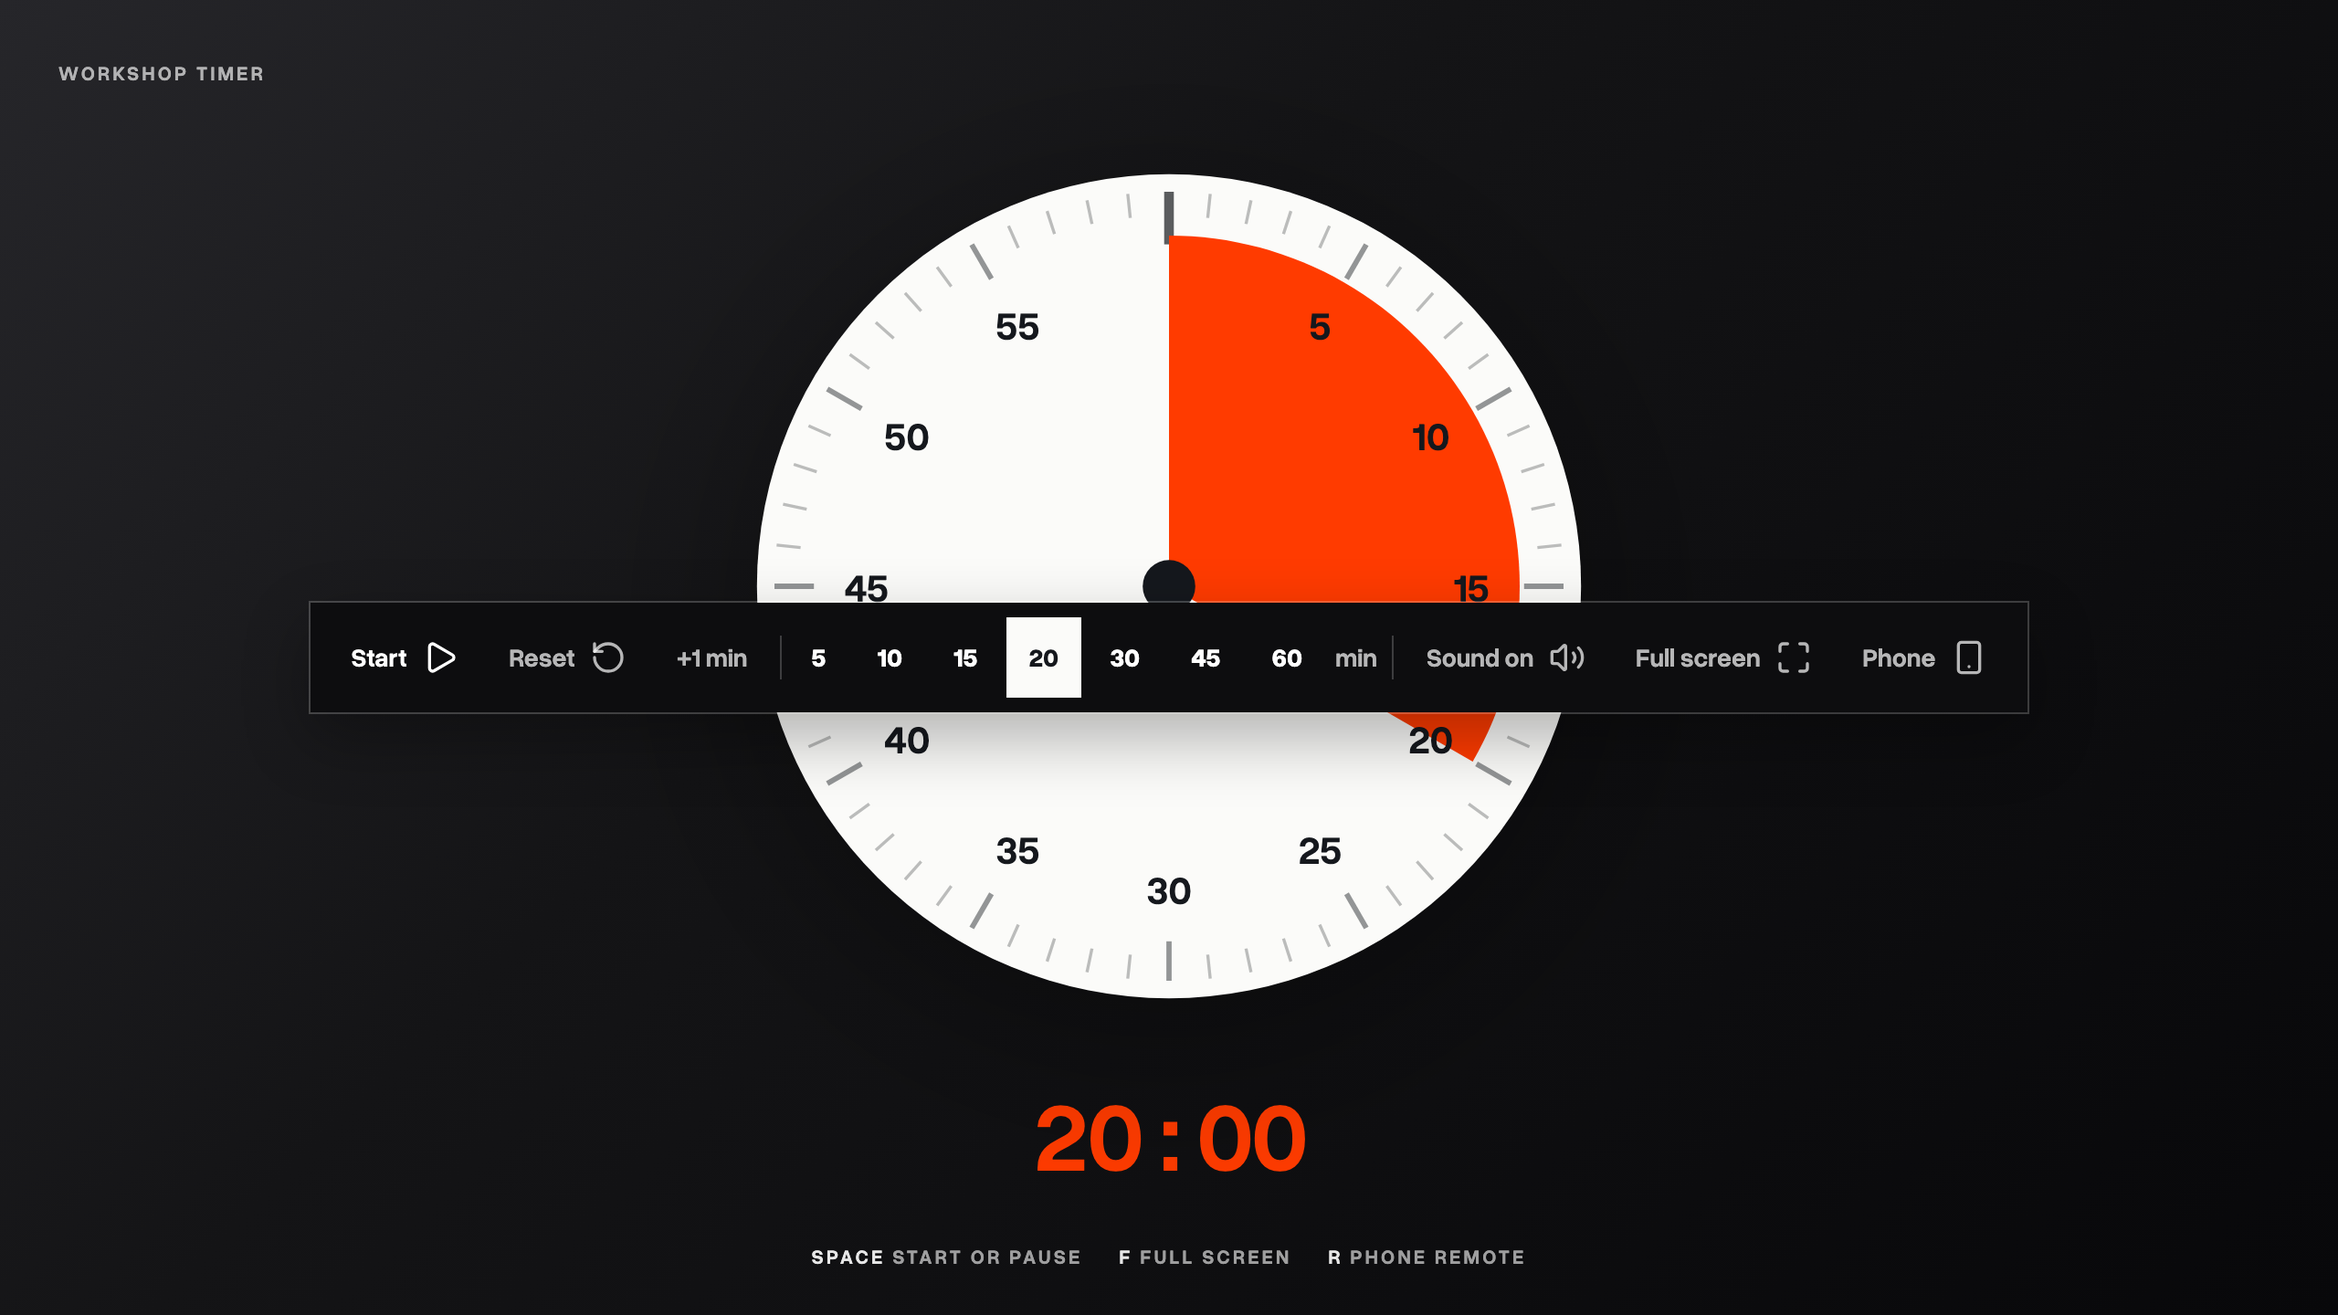
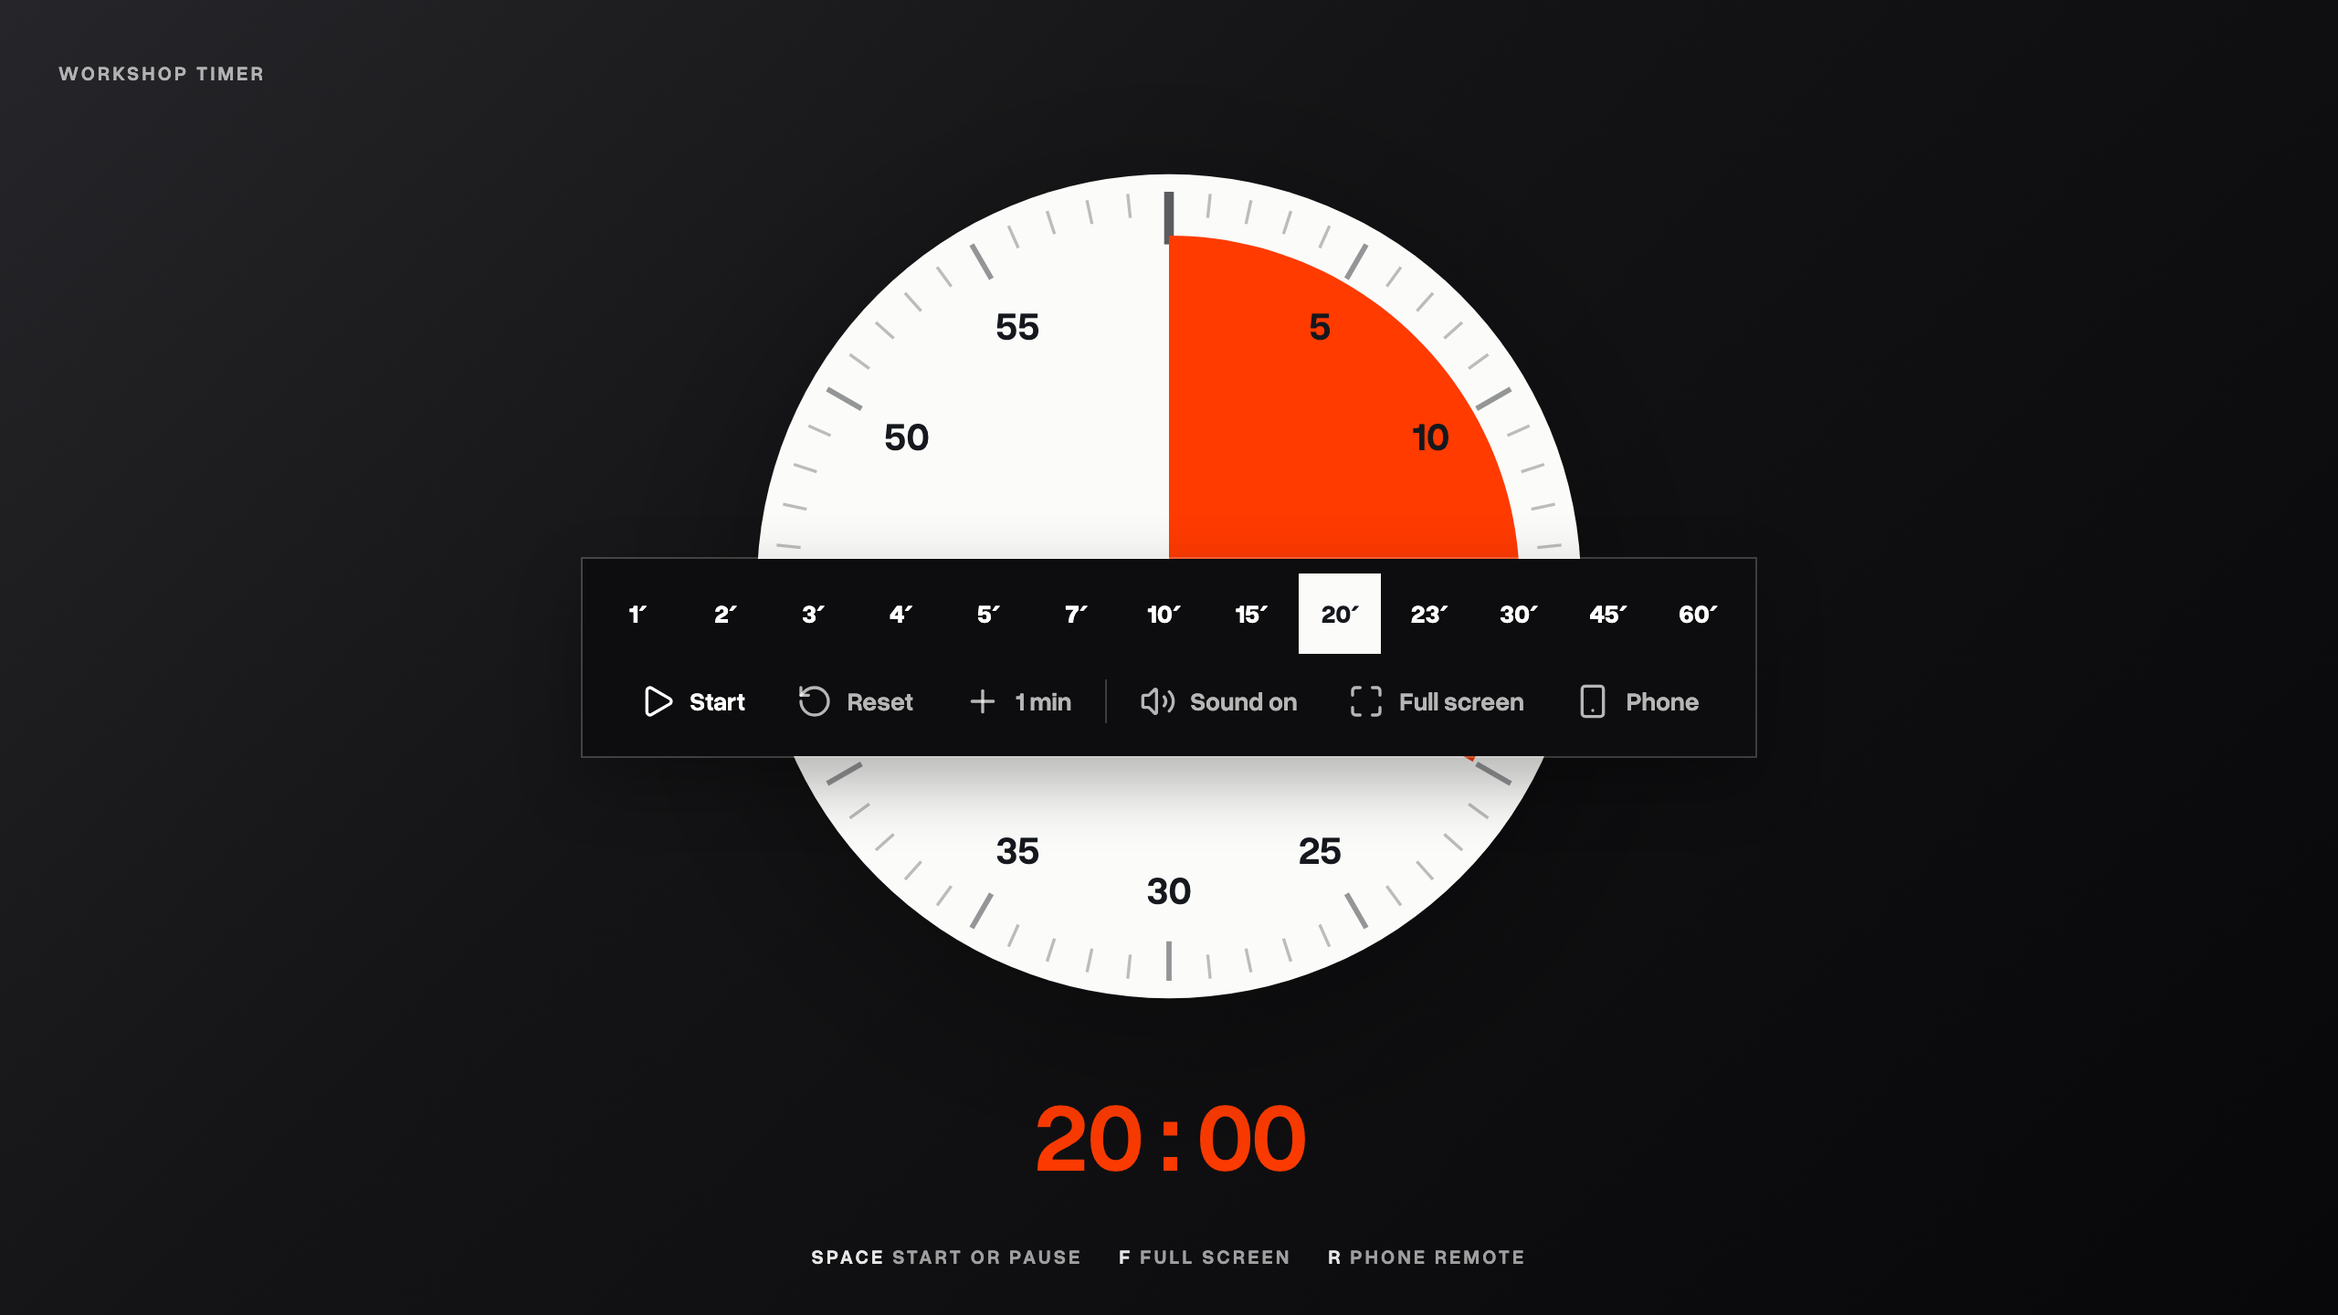
Shorter lengths, and every length in one row above the controls (#1)
Adds 1, 2, 3, 4, 7 and 23 minutes. On the screen the lengths get a row of their own above the controls, marked with the minute prime; every control leads with its symbol. On the phone the extra minute stretches across what the last row has left. README pictures re-shot.

diff --git a/src/components/timer-chrome.tsx b/src/components/timer-chrome.tsx
@@ -6,6 +6,7 @@ import {
   Minimize,
   Pause,
   Play,
+  Plus,
   RotateCcw,
   Smartphone,
   Volume2,
@@ -13,7 +14,7 @@ import {
 } from "lucide-react"
 
 import { usePrefersReducedMotion } from "@/components/use-reduced-motion"
-import { PRESETS } from "@/lib/timer-clock"
+import { PRESETS, SHORT_PRESETS } from "@/lib/timer-clock"
 import { cn } from "@/lib/utils"
 
 // The controls, gathered into one panel that shows itself when you move and
@@ -26,7 +27,7 @@ import { cn } from "@/lib/utils"
 // not there; and full screen stops being a second layout, since there is
 // nothing left to hide when the page is projected.
 
-/** Every control wears the same clothes: a label, a trailing symbol, no fill,
+/** Every control wears the same clothes: a leading symbol, a label, no fill,
  *  so nothing in here competes with the clock. `min-h-11` holds a 44px tap
  *  target, which is the smallest a finger reliably hits. */
 const CONTROL =
@@ -169,6 +170,26 @@ function TimerChrome({
   onToggleRemote,
   remoteHost,
 }: TimerChromeProps) {
+  const presetChip = (p: number) => (
+    <button
+      key={p}
+      type="button"
+      onClick={() => onChoose(p)}
+      aria-pressed={p * 60 === durationSeconds}
+      aria-label={`${p} ${p === 1 ? "minute" : "minutes"}`}
+      className={cn(
+        "min-h-11 min-w-11 px-3 text-sm font-bold transition-colors focus-visible:ring-2 focus-visible:ring-brand-on-panel focus-visible:ring-offset-2 focus-visible:ring-offset-brand-panel focus-visible:outline-none",
+        p * 60 === durationSeconds
+          ? "bg-brand-face text-brand-ink"
+          : "text-brand-on-panel hover:bg-brand-on-panel/15"
+      )}
+    >
+      {/* The prime is the minute mark, so each chip carries its own unit and
+          the row needs no "min" label trailing after it. */}
+      {p}′
+    </button>
+  )
+
   return (
     // A panel over the middle of the screen, not a row at the foot of the
     // column. Two things follow from floating it: the dial keeps the whole page
@@ -209,107 +230,89 @@ function TimerChrome({
             page: a tint reads as a smear once the thing behind it is white. */}
         <div
           className={cn(
-            "flex max-w-full flex-wrap items-center justify-center gap-x-1 gap-y-1 bg-brand-panel p-2 shadow-[0_14px_36px_rgb(0_0_0/0.3)] ring-1 ring-brand-on-panel/20"
+            "flex max-w-full flex-col items-center gap-1 bg-brand-panel p-2 shadow-[0_14px_36px_rgb(0_0_0/0.3)] ring-1 ring-brand-on-panel/20"
           )}
         >
-          <div className="flex items-center">
-            <button
-              type="button"
-              onClick={onToggle}
-              // The primary action keeps full-strength ink while the rest sit
-              // at 70%: same treatment, but Start is still the one you can
-              // find from the back of the room.
-              className={cn(CONTROL, "text-brand-on-panel")}
-            >
-              {running ? "Pause" : finished ? "Start again" : "Start"}
-              {running ? <Pause className="size-5" /> : <Play className="size-5" />}
-            </button>
-            <button
-              type="button"
-              onClick={onReset}
-              className={cn(CONTROL, "text-brand-on-panel/70 hover:text-brand-on-panel")}
-            >
-              Reset
-              <RotateCcw className="size-5" />
-            </button>
-            {/* The only control in this panel without a trailing symbol,
-                because it already starts with one. A plus icon after "+1 min"
-                says the same thing twice. */}
-            <button
-              type="button"
-              onClick={onAddMinute}
-              className={cn(CONTROL, "text-brand-on-panel/70 hover:text-brand-on-panel")}
-            >
-              +1 min
-            </button>
+          {/* The lengths get a row of their own, above the controls: every
+              chip in it is a number of minutes, smallest first, so the row
+              reads as one scale from a quick check-in to the full hour. */}
+          <div className="flex max-w-full flex-wrap items-center justify-center gap-1">
+            {[...SHORT_PRESETS, ...PRESETS].map(presetChip)}
           </div>
 
-          <Divider />
-
-          <div className="flex flex-wrap items-center justify-center gap-1">
-            {PRESETS.map((p) => (
+          <div className="flex max-w-full flex-wrap items-center justify-center gap-x-1 gap-y-1">
+            <div className="flex items-center">
               <button
-                key={p}
                 type="button"
-                onClick={() => onChoose(p)}
-                aria-pressed={p * 60 === durationSeconds}
+                onClick={onToggle}
+                // The primary action keeps full-strength ink while the rest sit
+                // at 70%: same treatment, but Start is still the one you can
+                // find from the back of the room.
+                className={cn(CONTROL, "text-brand-on-panel")}
+              >
+                {running ? <Pause className="size-5" /> : <Play className="size-5" />}
+                {running ? "Pause" : finished ? "Start again" : "Start"}
+              </button>
+              <button
+                type="button"
+                onClick={onReset}
+                className={cn(CONTROL, "text-brand-on-panel/70 hover:text-brand-on-panel")}
+              >
+                <RotateCcw className="size-5" />
+                Reset
+              </button>
+              {/* The plus is the symbol rather than a character in the label,
+                  so this control wears the same clothes as the others. */}
+              <button
+                type="button"
+                onClick={onAddMinute}
+                aria-label="Add one minute"
+                className={cn(CONTROL, "text-brand-on-panel/70 hover:text-brand-on-panel")}
+              >
+                <Plus className="size-5" />1 min
+              </button>
+            </div>
+
+            <Divider />
+
+            <div className="flex items-center">
+              <button
+                type="button"
+                onClick={onToggleMuted}
+                aria-pressed={muted}
+                className={cn(CONTROL, "text-brand-on-panel/70 hover:text-brand-on-panel")}
+              >
+                {muted ? <VolumeX className="size-5" /> : <Volume2 className="size-5" />}
+                {muted ? "Sound off" : "Sound on"}
+              </button>
+              <button
+                type="button"
+                onClick={onToggleFullscreen}
+                aria-pressed={fullscreen}
+                className={cn(CONTROL, "text-brand-on-panel/70 hover:text-brand-on-panel")}
+              >
+                {fullscreen ? (
+                  <Minimize className="size-5" />
+                ) : (
+                  <Maximize className="size-5" />
+                )}
+                {fullscreen ? "Leave full screen" : "Full screen"}
+              </button>
+              <button
+                type="button"
+                onClick={onToggleRemote}
+                aria-pressed={remote.code !== null}
                 className={cn(
-                  "min-h-11 px-3 text-sm font-bold transition-colors focus-visible:ring-2 focus-visible:ring-brand-on-panel focus-visible:ring-offset-2 focus-visible:ring-offset-brand-panel focus-visible:outline-none",
-                  p * 60 === durationSeconds
-                    ? "bg-brand-face text-brand-ink"
-                    : "text-brand-on-panel hover:bg-brand-on-panel/15"
+                  CONTROL,
+                  remote.code
+                    ? "text-brand-on-panel"
+                    : "text-brand-on-panel/70 hover:text-brand-on-panel"
                 )}
               >
-                {p}
+                <Smartphone className="size-5" />
+                Phone
               </button>
-            ))}
-            <span
-              aria-hidden
-              className="pr-1 pl-0.5 text-sm font-semibold text-brand-on-panel/70"
-            >
-              min
-            </span>
-          </div>
-
-          <Divider />
-
-          <div className="flex items-center">
-            <button
-              type="button"
-              onClick={onToggleMuted}
-              aria-pressed={muted}
-              className={cn(CONTROL, "text-brand-on-panel/70 hover:text-brand-on-panel")}
-            >
-              {muted ? "Sound off" : "Sound on"}
-              {muted ? <VolumeX className="size-5" /> : <Volume2 className="size-5" />}
-            </button>
-            <button
-              type="button"
-              onClick={onToggleFullscreen}
-              aria-pressed={fullscreen}
-              className={cn(CONTROL, "text-brand-on-panel/70 hover:text-brand-on-panel")}
-            >
-              {fullscreen ? "Leave full screen" : "Full screen"}
-              {fullscreen ? (
-                <Minimize className="size-5" />
-              ) : (
-                <Maximize className="size-5" />
-              )}
-            </button>
-            <button
-              type="button"
-              onClick={onToggleRemote}
-              aria-pressed={remote.code !== null}
-              className={cn(
-                CONTROL,
-                remote.code
-                  ? "text-brand-on-panel"
-                  : "text-brand-on-panel/70 hover:text-brand-on-panel"
-              )}
-            >
-              Phone
-              <Smartphone className="size-5" />
-            </button>
+            </div>
           </div>
         </div>
 

diff --git a/src/components/timer-remote.tsx b/src/components/timer-remote.tsx
@@ -6,7 +6,7 @@ import { Pause, Play, RotateCcw } from "lucide-react"
 import { useBrand } from "@/components/brand-provider"
 import { Watermark } from "@/components/watermark"
 import { needsPlinth } from "@/lib/brand"
-import { PRESETS, formatClock, parseDuration } from "@/lib/timer-clock"
+import { PRESETS, SHORT_PRESETS, formatClock, parseDuration } from "@/lib/timer-clock"
 import { type RelayResult, readRoom, writeRoom } from "@/lib/timer-relay-client"
 // Type only: the relay module imports node:crypto and must never be bundled
 // for a browser. Keep this an `import type`.
@@ -26,6 +26,11 @@ import { cn } from "@/lib/utils"
 const POLL_MS = 1000
 const PEER_TIMEOUT_MS = 4000
 const CODE_LENGTH = 5
+/** Every length the grid offers, smallest first, and how many sit in a row.
+ *  The column count drives both the grid and the extra minute's span, so the
+ *  two can never disagree about where a row ends. */
+const LENGTHS = [...SHORT_PRESETS, ...PRESETS]
+const GRID_COLUMNS = 4
 
 /** What the dot at the top is saying. Four states, because "it is not working"
  *  has four different answers and only one of them is the phone's fault.
@@ -310,22 +315,27 @@ function TimerRemote() {
         </form>
       ) : (
         <>
-          {/* Eight cells in two rows of four, above the clock rather than
-              below it. Seven presets will not divide evenly into rows, so the
-              extra minute is the eighth: it belongs with them anyway, since
-              everything in this grid is a number of minutes, and it squares
-              the block off. */}
+          {/* Every length in rows of four, above the clock rather than below
+              it, smallest first, then the extra minute: it belongs with them,
+              since everything in this grid is a number of minutes. The
+              lengths rarely divide evenly into rows, so the extra minute
+              stretches across whatever the last row has left and the block
+              stays square. */}
           <div className="relative z-10 shrink-0 px-5 pb-1">
             <p className="label mb-2 text-brand-on-ground/60">
               Minutes
             </p>
-            <div className="grid grid-cols-4 gap-2">
-              {PRESETS.map((p) => (
+            <div
+              className="grid gap-2"
+              style={{ gridTemplateColumns: `repeat(${GRID_COLUMNS}, minmax(0, 1fr))` }}
+            >
+              {LENGTHS.map((p) => (
                 <button
                   key={p}
                   type="button"
                   onClick={() => send({ kind: "duration", durationMs: p * 60_000 }, `p${p}`)}
                   aria-pressed={p * 60 === durationSeconds}
+                  aria-label={`${p} ${p === 1 ? "minute" : "minutes"}`}
                   className={cn(
                     "min-h-12 text-base font-bold transition-colors focus-visible:ring-2 focus-visible:ring-brand-on-ground focus-visible:ring-offset-2 focus-visible:ring-offset-brand-ground focus-visible:outline-none",
                     p * 60 === durationSeconds
@@ -334,20 +344,24 @@ function TimerRemote() {
                     flash === `p${p}` && "brightness-75"
                   )}
                 >
-                  {p}
+                  {p}′
                 </button>
               ))}
               {/* Filled rather than outlined, because it DOES something where
-                  the other seven only say what the clock is set to. */}
+                  the others only say what the clock is set to. Its span is
+                  worked out from the count, not written down, so adding or
+                  removing a length cannot leave a hole in the last row. */}
               <button
                 type="button"
                 onClick={() => send({ kind: "add", ms: 60_000 }, "add")}
+                aria-label="Add one minute"
+                style={{ gridColumn: `span ${GRID_COLUMNS - (LENGTHS.length % GRID_COLUMNS)}` }}
                 className={cn(
                   "min-h-12 bg-brand-on-ground/15 text-base font-bold text-brand-on-ground ring-1 ring-brand-on-ground/30 transition-[filter] focus-visible:ring-2 focus-visible:ring-brand-on-ground focus-visible:ring-offset-2 focus-visible:ring-offset-brand-ground focus-visible:outline-none",
                   flash === "add" && "brightness-75"
                 )}
               >
-                +1
+                +1′
               </button>
             </div>
           </div>

diff --git a/src/lib/timer-clock.ts b/src/lib/timer-clock.ts
@@ -11,7 +11,12 @@
 // Everything here is pure and has no React in it, so the route handlers can
 // import it without pulling a client component onto the server.
 
-export const PRESETS = [5, 10, 15, 20, 30, 45, 60] as const
+export const PRESETS = [5, 7, 10, 15, 20, 23, 30, 45, 60] as const
+
+/** A second, finer row for the short stretches inside a session: a quick
+ *  check-in, a stretch, a round of one-minute pitches. Kept apart from
+ *  `PRESETS` because both surfaces lay them out as a row of their own. */
+export const SHORT_PRESETS = [1, 2, 3, 4] as const
 
 export const MAX_MINUTES = 180
 export const MIN_SECONDS = 1

diff --git a/README.md b/README.md
@@ -32,7 +32,7 @@ in a background tab, and a clock that subtracts 100ms per tick quietly loses
 minutes while you present in another window. This one recomputes from a wall
 clock every tick, so it cannot drift.
 
-<img src="docs/controls.png" alt="The same timer with a black control bar across the middle: Start, Reset, plus one minute, preset lengths from 5 to 60, sound, full screen and phone." width="820">
+<img src="docs/controls.png" alt="The same timer with a black control bar across the middle: a row of preset lengths from 1 to 60 minutes, and below it Start, Reset, plus one minute, sound, full screen and phone." width="820">
 
 Three keys, because the laptop is usually across the room: `Space` to start or
 pause, `F` for full screen, `R` for the phone. Set the length by typing into the
